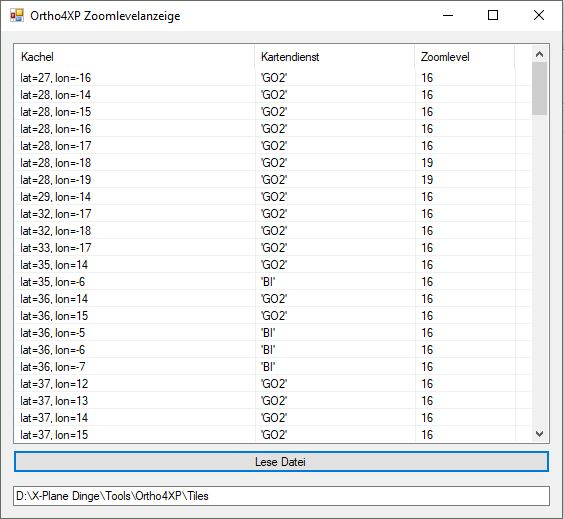
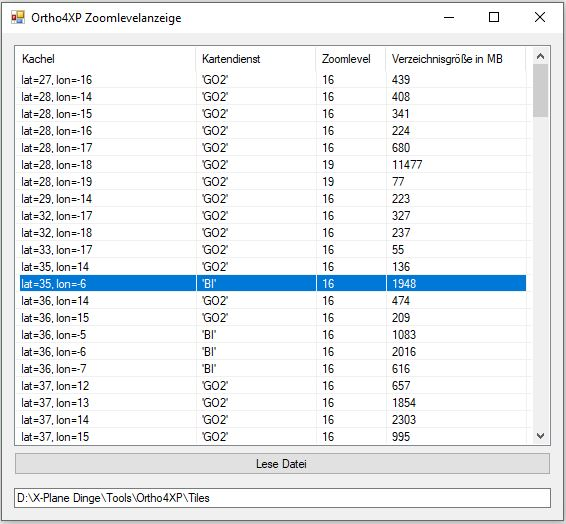
Verzeichnisgröße hinzugefügt

Changed region(s): [[0.0, 0.0, 1.0, 1.0]]

diff --git a/Ortho4XPZoom/Form1.Designer.cs b/Ortho4XPZoom/Form1.Designer.cs
@@ -34,6 +34,7 @@
             this.columnHeaderMap = ((System.Windows.Forms.ColumnHeader)(new System.Windows.Forms.ColumnHeader()));
             this.columnHeaderZommlevel = ((System.Windows.Forms.ColumnHeader)(new System.Windows.Forms.ColumnHeader()));
             this.textBoxPfad = new System.Windows.Forms.TextBox();
+            this.columnHeaderGröße = ((System.Windows.Forms.ColumnHeader)(new System.Windows.Forms.ColumnHeader()));
             this.SuspendLayout();
             // 
             // button1
@@ -51,7 +52,8 @@
             this.listViewKacheln.Columns.AddRange(new System.Windows.Forms.ColumnHeader[] {
             this.columnHeaderKachel,
             this.columnHeaderMap,
-            this.columnHeaderZommlevel});
+            this.columnHeaderZommlevel,
+            this.columnHeaderGröße});
             this.listViewKacheln.FullRowSelect = true;
             this.listViewKacheln.GridLines = true;
             this.listViewKacheln.Location = new System.Drawing.Point(12, 12);
@@ -64,17 +66,17 @@
             // columnHeaderKachel
             // 
             this.columnHeaderKachel.Text = "Kachel";
-            this.columnHeaderKachel.Width = 240;
+            this.columnHeaderKachel.Width = 180;
             // 
             // columnHeaderMap
             // 
             this.columnHeaderMap.Text = "Kartendienst";
-            this.columnHeaderMap.Width = 160;
+            this.columnHeaderMap.Width = 120;
             // 
             // columnHeaderZommlevel
             // 
             this.columnHeaderZommlevel.Text = "Zoomlevel";
-            this.columnHeaderZommlevel.Width = 100;
+            this.columnHeaderZommlevel.Width = 70;
             // 
             // textBoxPfad
             // 
@@ -82,6 +84,11 @@
             this.textBoxPfad.Name = "textBoxPfad";
             this.textBoxPfad.Size = new System.Drawing.Size(537, 20);
             this.textBoxPfad.TabIndex = 2;
+            // 
+            // columnHeaderGröße
+            // 
+            this.columnHeaderGröße.Text = "Verzeichnisgröße in MB";
+            this.columnHeaderGröße.Width = 140;
             // 
             // Form1
             // 
@@ -107,6 +114,7 @@
         private System.Windows.Forms.ColumnHeader columnHeaderMap;
         private System.Windows.Forms.ColumnHeader columnHeaderZommlevel;
         private System.Windows.Forms.TextBox textBoxPfad;
+        private System.Windows.Forms.ColumnHeader columnHeaderGröße;
     }
 }
 

diff --git a/Ortho4XPZoom/Form1.cs b/Ortho4XPZoom/Form1.cs
@@ -55,7 +55,17 @@ namespace Ortho4XP
                     }
                 }
                 file.Close();
-            }          
+
+                string[] dateien = Directory.GetFiles(dir, "*.*", SearchOption.AllDirectories);
+                long bytes = 0;
+                foreach (string name in dateien)
+                {
+                    FileInfo info = new FileInfo(name);
+                    bytes += info.Length;
+                }
+                bytes = (bytes / 1024) / 1024;
+                item.SubItems.Add(bytes.ToString());
+            }
         }
     }
 }
